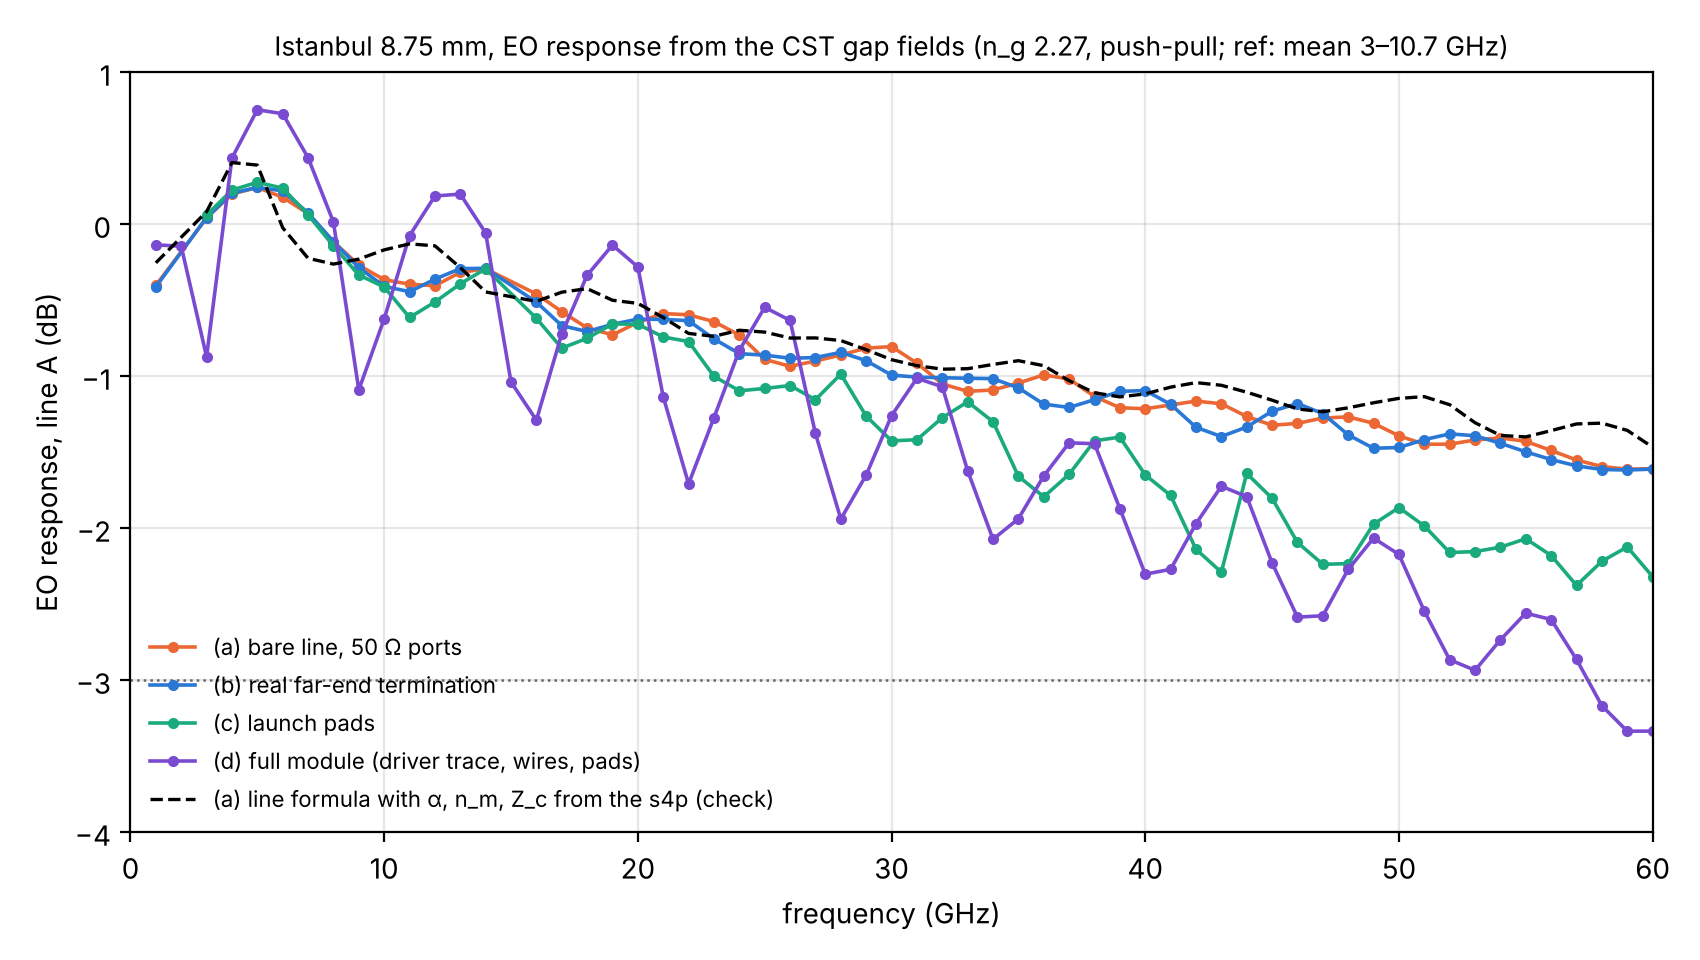
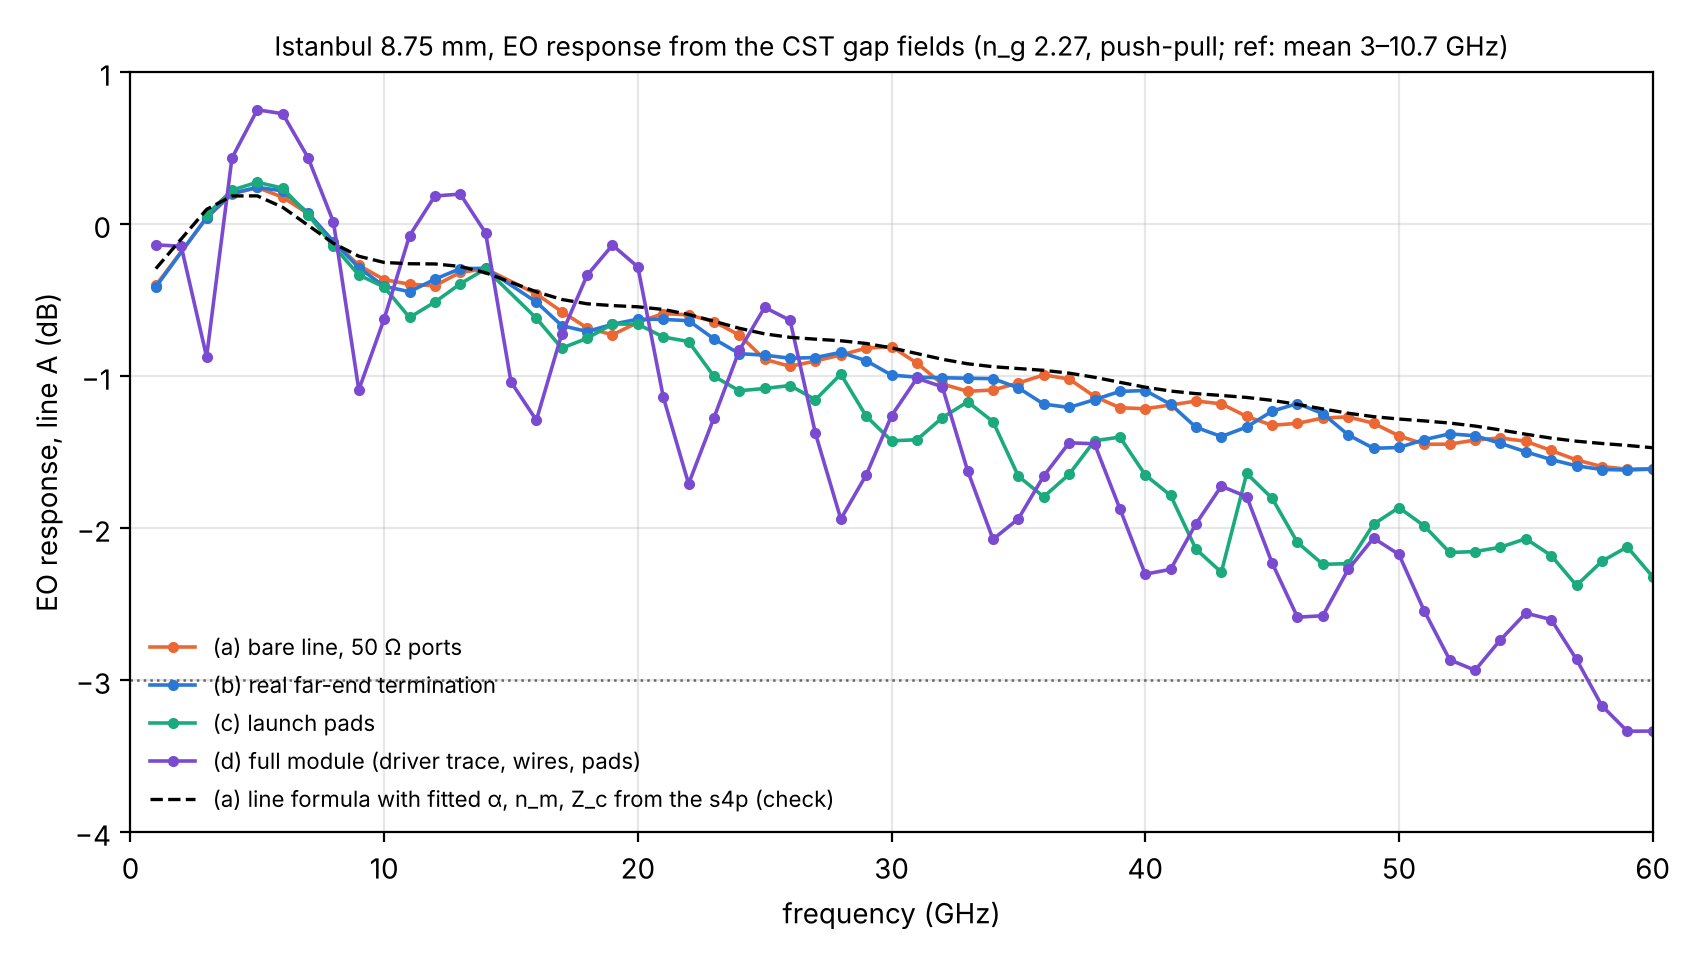
Istanbul EO bandwidth check: line formula with fitted line parameters; ripple comparison documented
Claude-Session: https://claude.ai/code/session_01PF7RKNjFsSkyjm1syGCUrV

diff --git a/docs/cst/xtalk/eo_bandwidth/eo_bandwidth_fields.py b/docs/cst/xtalk/eo_bandwidth/eo_bandwidth_fields.py
@@ -36,9 +36,13 @@ tmp = os.path.join(tempfile.mkdtemp(), "runa_A"); n.write_touchstone(tmp); fit =
 f = out["a"][0]; fr = fit.raw_f_GHz
 H, _ = eo_transfer(f, np.interp(f, fr, fit.raw_alpha_dB_cm), np.interp(f, fr, fit.raw_nm),
                    np.interp(f, fr, fit.raw_Zc.real) + 1j * np.interp(f, fr, fit.raw_Zc.imag), 8.75e-3, 2.27, 50.0, 50.0)
-hm = abs(H); yM = 20 * np.log10(hm / np.mean(hm[(f >= REF[0]) & (f <= REF[1])]))
-d = out["a"][1] - yM
-print(f"check run (a), fields - line formula from the s4p: median {np.median(d):+.2f} dB, max abs {abs(d).max():.2f} dB")
+Hf, _ = eo_transfer(f, fit.alpha_dB_cm(f), fit.nm(f), fit.Zc(f), 8.75e-3, 2.27, 50.0, 50.0)   # fitted (smooth) alpha, n_m, Zc
+nd = lambda h: 20 * np.log10(abs(h) / np.mean(abs(h)[(f >= REF[0]) & (f <= REF[1])]))
+yR, yM = nd(H), nd(Hf)
+for lab, y in (("raw extracted", yR), ("fitted", yM)):
+    d = out["a"][1] - y
+    print(f"check run (a), fields - line formula ({lab} alpha, n_m, Zc): rms {np.sqrt(np.mean(d**2)):.2f}, max abs {abs(d).max():.2f} dB, "
+          f"ripple correlation (1 GHz differences) {np.corrcoef(np.diff(out['a'][1]), np.diff(y))[0, 1]:+.2f}")
 print("run | EO response at 20/40/60 GHz (dB, plateau ref) | -3 dB crossing: plateau ref | 1 GHz ref")
 for r, (f, y, y1) in out.items():
     v = " ".join(f"{y[np.argmin(abs(f - q))]:+.2f}" for q in (20, 40, 60))
@@ -52,7 +56,7 @@ with open(os.path.join(HERE, "eo_bandwidth_fields.csv"), "w") as fh:
 C = {"a": "#eb6834", "b": "#2a78d6", "c": "#1baa7d", "d": "#7a4bd1"}
 fig, ax = plt.subplots(figsize=(8.5, 4.8))
 for r, (f, y, _) in out.items(): ax.plot(f, y, "o-", ms=3, lw=1.3, color=C[r], label=RUNS[r][0])
-ax.plot(out["a"][0], yM, "k--", lw=1.2, label="(a) line formula with α, n_m, Z_c from the s4p (check)")
+ax.plot(out["a"][0], yM, "k--", lw=1.2, label="(a) line formula with fitted α, n_m, Z_c from the s4p (check)")
 ax.axhline(-3, color="0.4", lw=0.9, ls=":"); ax.set_xlim(0, 60); ax.set_ylim(-4, 1)
 ax.set_xlabel("frequency (GHz)"); ax.set_ylabel("EO response, line A (dB)"); ax.grid(alpha=0.3); ax.legend(frameon=False, fontsize=8, loc="lower left")
 ax.set_title("Istanbul 8.75 mm, EO response from the CST gap fields (n_g 2.27, push-pull; ref: mean 3–10.7 GHz)", fontsize=9.5)
@@ -61,7 +65,7 @@ fig.tight_layout(); fig.savefig(os.path.join(HERE, "eo_bandwidth_fields.png"), d
 # check figure: only run (a), fields vs line formula
 fig, ax = plt.subplots(figsize=(8.5, 4.8))
 ax.plot(out["a"][0], out["a"][1], "o-", ms=3.5, lw=1.4, color=C["a"], label="from the CST gap fields")
-ax.plot(out["a"][0], yM, "k--", lw=1.6, label="from the touchstone (line formula with extracted α, n_m, Z_c)")
+ax.plot(out["a"][0], yM, "k--", lw=1.6, label="from the touchstone (line formula with fitted α, n_m, Z_c)")
 ax.axhline(-3, color="0.4", lw=0.9, ls=":"); ax.set_xlim(0, 60); ax.set_ylim(-4, 1)
 ax.set_xlabel("frequency (GHz)"); ax.set_ylabel("EO response, line A (dB)"); ax.grid(alpha=0.3); ax.legend(frameon=False, fontsize=9, loc="lower left")
 ax.set_title("Istanbul run (a), 8.75 mm bare line, 50 Ω ports: EO response, fields vs touchstone", fontsize=10)

diff --git a/docs/cst/xtalk/eo_bandwidth/README.md b/docs/cst/xtalk/eo_bandwidth/README.md
@@ -10,8 +10,16 @@ Two normalisations are used:
 - for reference, to 1 GHz.
 
 The data in the log and the figure came out as follows.
-- **Check** (`eo_check_run_a.png`): the run (a) field result was compared with the line formula, using α, n_m and Z_c extracted from the run (a) s4p.
-  They agree to 0.12 dB (median) and 0.31 dB at most. The field normalisation is therefore consistent across frequency.
+- **Check** (`eo_check_run_a.png`): the run (a) field result is compared with the line formula, using α, n_m and Z_c
+  extracted from the run (a) s4p.
+  - With the raw extracted values the agreement is rms 0.16 dB and 0.31 dB at most, but the ripples do not match: the
+    correlation of the 1 GHz differences is only +0.39. The raw Z_c from the de-embedding oscillates between 52 and
+    61 Ω with frequency, and that oscillation creates a ripple that is not in the fields.
+  - With the fitted (smooth) values the agreement is rms 0.11 dB, 0.19 dB at most, and the ripple correlation is +0.84.
+  - What still differs: above 20 GHz the fields show a ripple of about ±0.15 dB that is weaker in the formula. A
+    standing-wave fit of V(z) in the gap gives a far-end reflection of 0.07–0.12, against about 0.05 for the fitted
+    Z_c (55–57 Ω) between 50 Ω ports. The ends of the simulated line therefore reflect more than a uniform line between
+    ideal 50 Ω ports would. A likely cause is the discrete ports, which are not in the formula, but this is not verified.
 - **Results:**
   - Runs (a), (b) and (c) do not reach −3 dB by 60 GHz. At 60 GHz they are at −1.6, −1.6 and −2.3 dB.
   - Run (d) (full module) crosses −3 dB at 57.4 GHz with the plateau reference, and at 57.9 GHz with the 1 GHz reference.
